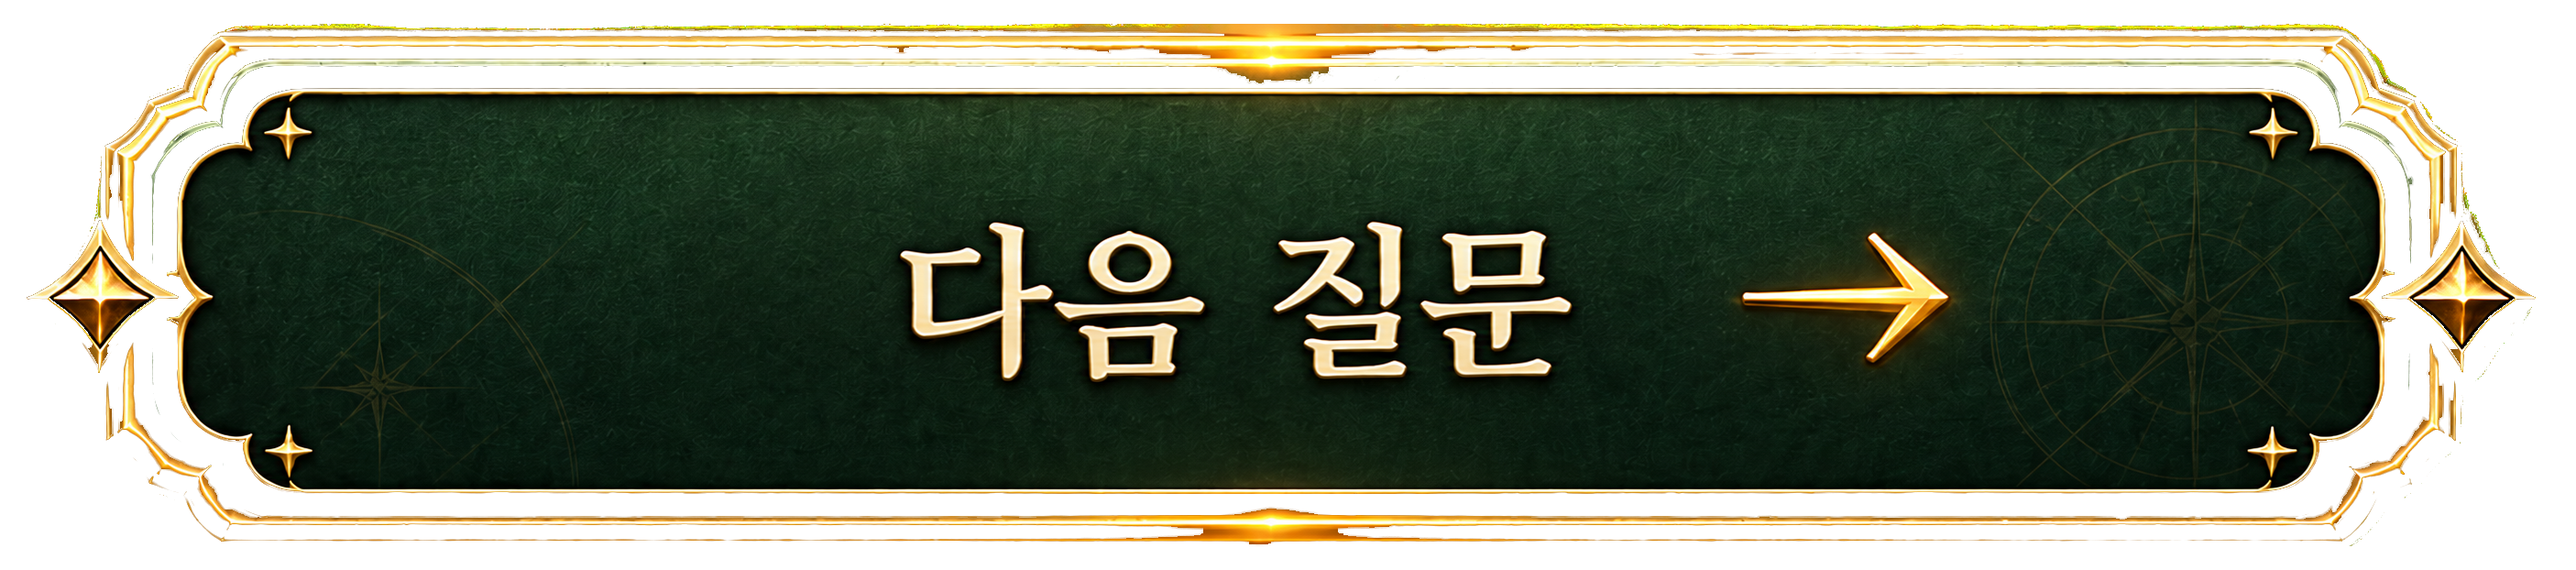
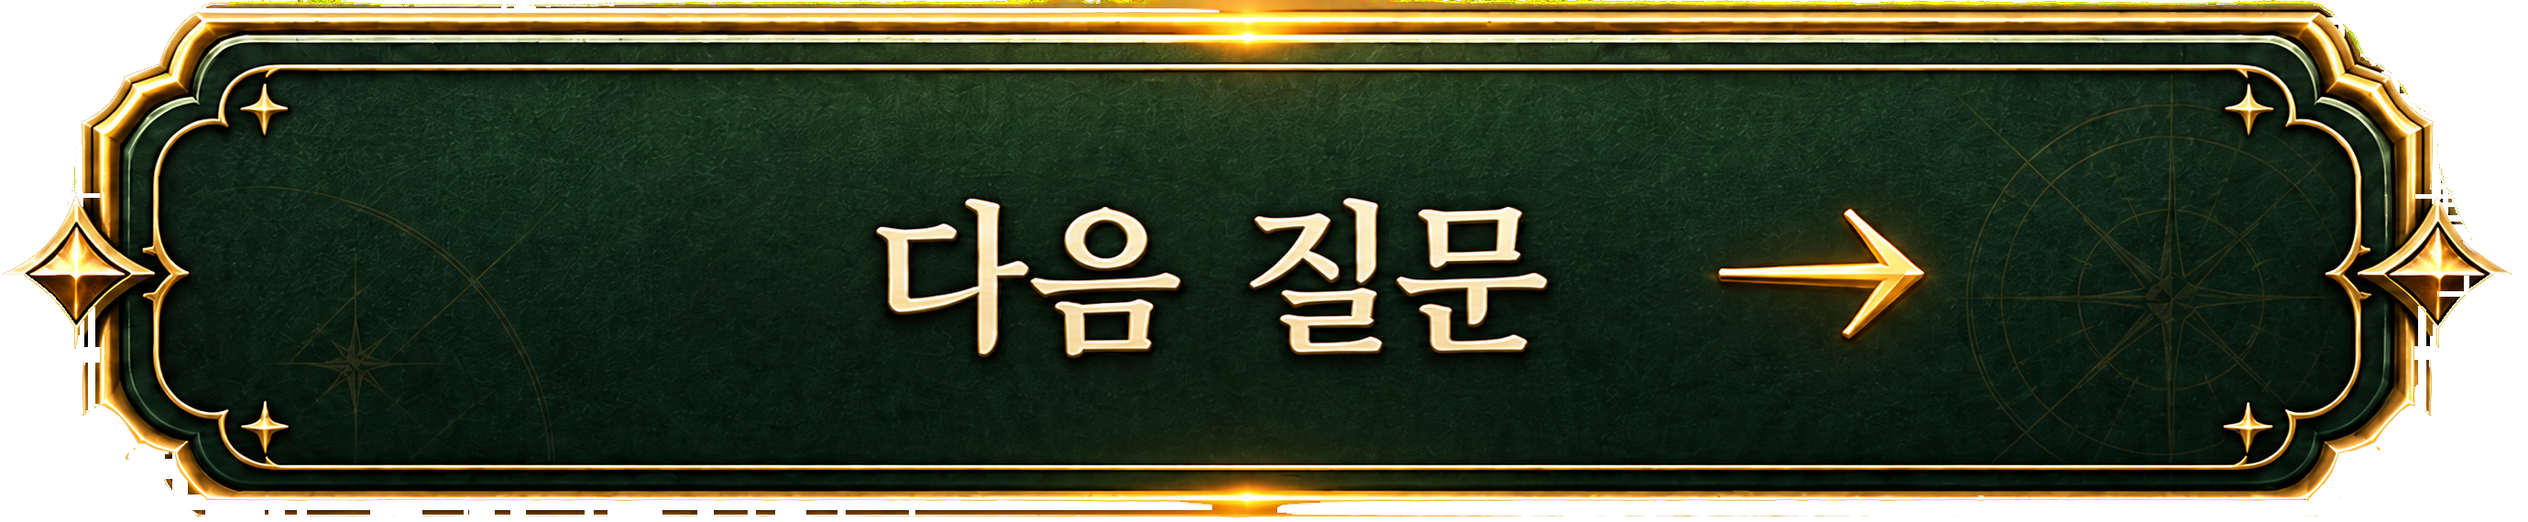
fix: 다음질문 아트 복원·3단계 밀림 근본 수정, 결과 CTA 아트 적용·버튼 2열·영상 카드 개편
- prep-nav 5종을 flood fill 이전 버전으로 복원(다음 질문 그림이 망가졌던 것)
- 카드 중앙정렬 복원(맨 위로 붙던 것 되돌림). 3단계 밀림의 진짜 원인은 '지역을
  선택했어요' 문구가 선택 후 나타나며 아래를 밀던 것 - 질문 헤드에 그 줄을 미리
  확보해 문구만 나타나게 함(전 단계 헤드 85px·네비 898px 동일 실측)
- '나의 플레이 결과 보기' 4상태 드로잉 적용(2058x764, 배경 투명 확인)
- 결과 버튼: 추천받기를 반으로 줄이고 옆에 다시 탐색하기 배치(2열)
- 추천 영상 카드: 썸네일을 가로 전체 16:9로 키우고 설명은 아래줄, 재생 버튼 오버레이,
  패널은 버튼 줄과 같은 높이에서 끝나도록 세로 확장

diff --git a/src/features/journey/scenes/NbtiScenes.tsx b/src/features/journey/scenes/NbtiScenes.tsx
@@ -1,5 +1,5 @@
 import { useEffect, useState, type CSSProperties, type ReactNode } from 'react'
-import { prepNavBack, prepNavCtaEnabled, prepNavCtaDisabled, loadingMaster } from '../../../components/prep/prepAssets'
+import { prepNavBack, prepNavCtaEnabled, prepNavCtaDisabled, loadingMaster, resultCtaEnabled, resultCtaDisabled } from '../../../components/prep/prepAssets'
 import profileAvatar from '../../../assets/brand/profile-avatar-front.png'
 import { ClasscadeEmblem, ClasscadeLockup, Icon, type IconName } from '../../../components/VisualPrimitives'
 import { NBTI_AXES, NBTI_QUESTIONS, NBTI_TOTAL_QUESTIONS, type NbtiAxis, type NbtiDirection } from '../../../data/nbti.provisional'
@@ -211,7 +211,7 @@ export function QuestionScene(props: JourneySceneProps) {
             {/* The drawn plaque says "다음 질문으로"; the final question needs different
                 copy, so it keeps the CSS button. */}
             {last
-              ? <PrimaryButton onClick={() => setRevealing(true)} disabled={!selected}>나의 플레이 결과 보기</PrimaryButton>
+              ? <JourneyNavArt art={selected ? resultCtaEnabled : resultCtaDisabled} label='나의 플레이 결과 보기' onClick={() => setRevealing(true)} disabled={!selected} variant='result' />
               : <JourneyNavArt art={selected ? prepNavCtaEnabled : prepNavCtaDisabled} label="다음 질문으로" onClick={() => props.onAction({ type: 'NEXT_NBTI' })} disabled={!selected} variant="next" />}
           </div>
         </div>
@@ -223,7 +223,7 @@ export function QuestionScene(props: JourneySceneProps) {
 
 /** Same drawn nav plaques as the prep flow, with the same guarantee: if the image fails
  *  to load, the flat CSS button comes back instead of an invisible click target. */
-function JourneyNavArt({ art, label, onClick, disabled, variant }: { art: string; label: string; onClick: () => void; disabled?: boolean; variant: 'back' | 'next' }) {
+function JourneyNavArt({ art, label, onClick, disabled, variant }: { art: string; label: string; onClick: () => void; disabled?: boolean; variant: 'back' | 'next' | 'result' }) {
   const [failed, setFailed] = useState(false)
   if (failed) {
     return variant === 'back'
@@ -231,7 +231,7 @@ function JourneyNavArt({ art, label, onClick, disabled, variant }: { art: string
       : <PrimaryButton onClick={onClick} disabled={disabled}>{label}</PrimaryButton>
   }
   return (
-    <button type="button" className="journey-nav-img" onClick={onClick} disabled={disabled} aria-label={label}>
+    <button type="button" className={`journey-nav-img journey-nav-img--${variant}`} onClick={onClick} disabled={disabled} aria-label={label}>
       <img src={art} alt="" aria-hidden="true" onError={() => setFailed(true)} />
     </button>
   )

diff --git a/src/features/journey/journey-shared.css b/src/features/journey/journey-shared.css
@@ -424,3 +424,22 @@
   .journey-result--art .journey-result__directions { grid-template-columns: repeat(2, minmax(0, 1fr)); margin-left: 0; }
   .journey-result--art .journey-result__caution, .journey-result--art .journey-result__actions { margin-left: 0; }
 }
+
+/* Result actions: 추천받기 halved so 다시 탐색하기 sits beside it on the same row. */
+.journey-result--art .journey-result__actions { display: grid; gap: clamp(10px, 1vw, 16px); grid-template-columns: repeat(2, minmax(0, 1fr)); }
+.journey-result--art .journey-result__actions .journey-button { min-width: 0; width: 100%; }
+.journey-result--art .journey-result__actions .journey-button--secondary { min-height: clamp(56px, 6.6vh, 74px); }
+@media (max-width: 700px) { .journey-result--art .journey-result__actions { grid-template-columns: 1fr; } }
+
+/* Video cards: full-width 16:9 still with a play button, caption beneath — not a
+   thumbnail-beside-text row. The panel stretches to finish level with the buttons. */
+.result-rec__list article { display: block; }
+.result-rec__list article > a { display: block; }
+.result-rec__thumb { width: 100%; }
+.result-rec__thumb::after { height: 54px; width: 54px; }
+.result-rec__thumb::before { border-bottom: 11px solid transparent; border-left: 18px solid rgba(255,250,230,.96); border-top: 11px solid transparent; content: ''; left: calc(50% - 5px); position: absolute; top: 50%; transform: translateY(-50%); z-index: 1; }
+.result-rec__list article > div { padding: 9px 3px 2px; }
+@media (min-width: 1101px) {
+  .journey-result.has-recommendations .result-rec { align-self: stretch; display: flex; flex-direction: column; }
+  .result-rec__list { flex: 1 1 auto; }
+}

diff --git a/src/entry-flat.css b/src/entry-flat.css
@@ -264,12 +264,10 @@
      close. */
   padding: var(--prep-gap) 0 var(--prep-gap);
 }
-/* Fixed distance below the question, NOT centred in the leftover space: centring made
-   the card block's top edge depend on how many rows that step happens to have, so
-   stepping 2 -> 3 (one row -> two rows) visibly jolted the whole block down a notch.
-   A constant top offset keeps every step's cards on the same line. */
+/* Centred in the leftover space, but never opening a gap larger than this - otherwise
+   the sparse pages push the cards far from their question. */
 .entry-prep--flat .entry-flat-cards,
-.entry-prep--flat .entry-growth-grid { margin-block: 0 auto; }
+.entry-prep--flat .entry-growth-grid { margin-block: auto; }
 .entry-prep--flat .entry-prep__question-head { margin-bottom: var(--prep-gap); }
 /* Equal space above and below the nav row: the padding above the buttons matches the
    panel's own bottom padding below them. */
@@ -415,3 +413,9 @@
   .entry-prep--flat .entry-nav-img { width: 176px; }
   .entry-prep--flat .entry-nav-img--final { width: 200px; }
 }
+
+/* Step 3's "지역을 선택했어요" cue appears only after a pick, and appearing mid-layout
+   pushed the cards and nav down a notch. The row is reserved from the start and only
+   its text fades in, so nothing moves. */
+.entry-prep--flat .entry-prep__next-cue { margin: 0 0 8px; min-height: 1.35em; visibility: visible; }
+.entry-prep--flat .entry-prep__question-head { min-height: calc(44px + 1.35em + 8px); }

diff --git a/src/components/prep/prepAssets.ts b/src/components/prep/prepAssets.ts
@@ -155,3 +155,11 @@ export const PREP_TWO_CARD_ART: Record<CareerRange, { neutral?: string; selected
   '11-20': { neutral: prepTwoElevenToTwentyNeutral, selected: prepTwoElevenToTwentySelected, rect: { '--art-x': '46.23%', '--art-y': '53.96%', '--art-w': '10.24%', '--art-h': '18.49%' } as CSSProperties },
   '21-plus': { neutral: prepTwoTwentyOnePlusNeutral, selected: prepTwoTwentyOnePlusSelected, rect: { '--art-x': '57.21%', '--art-y': '53.30%', '--art-w': '9.84%', '--art-h': '18.87%' } as CSSProperties },
 }
+
+/* "나의 플레이 결과 보기" — the NBTI flow's final CTA, drawn 2026-08-13.
+   All four states share one 2058x764 canvas with a transparent background. */
+import resultCtaEnabled from '../../assets/classcade/prep-nav/result-cta-enabled.png'
+import resultCtaDisabled from '../../assets/classcade/prep-nav/result-cta-disabled.png'
+import resultCtaHover from '../../assets/classcade/prep-nav/result-cta-hover.png'
+import resultCtaActive from '../../assets/classcade/prep-nav/result-cta-active.png'
+export { resultCtaEnabled, resultCtaDisabled, resultCtaHover, resultCtaActive }

diff --git a/src/features/journey/journey-board.css b/src/features/journey/journey-board.css
@@ -201,3 +201,6 @@
   .journey-question > .journey-panel__topline { padding-bottom: 6px; }
   .journey-question .journey-kicker { margin-bottom: 6px; }
 }
+
+/* The drawn final CTA is wider than the nav plaques — it carries a full sentence. */
+.journey-nav-img--result { width: clamp(240px, 21vw, 330px); }
